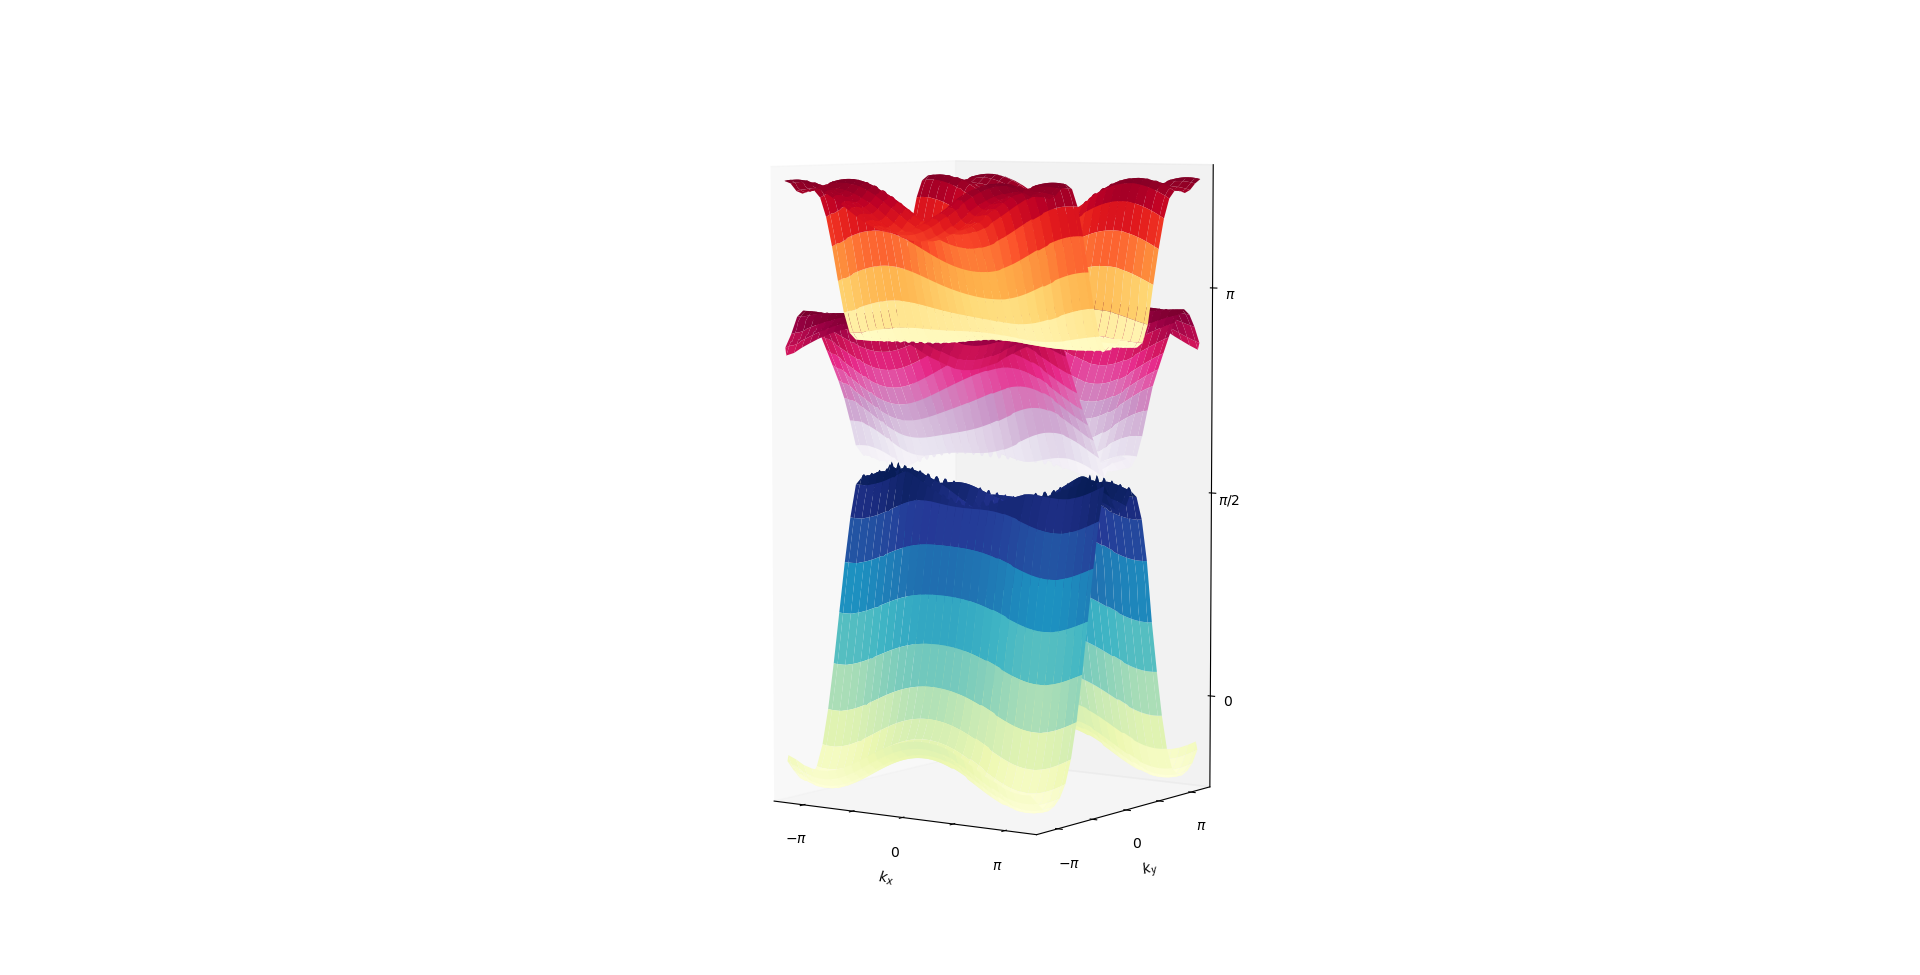
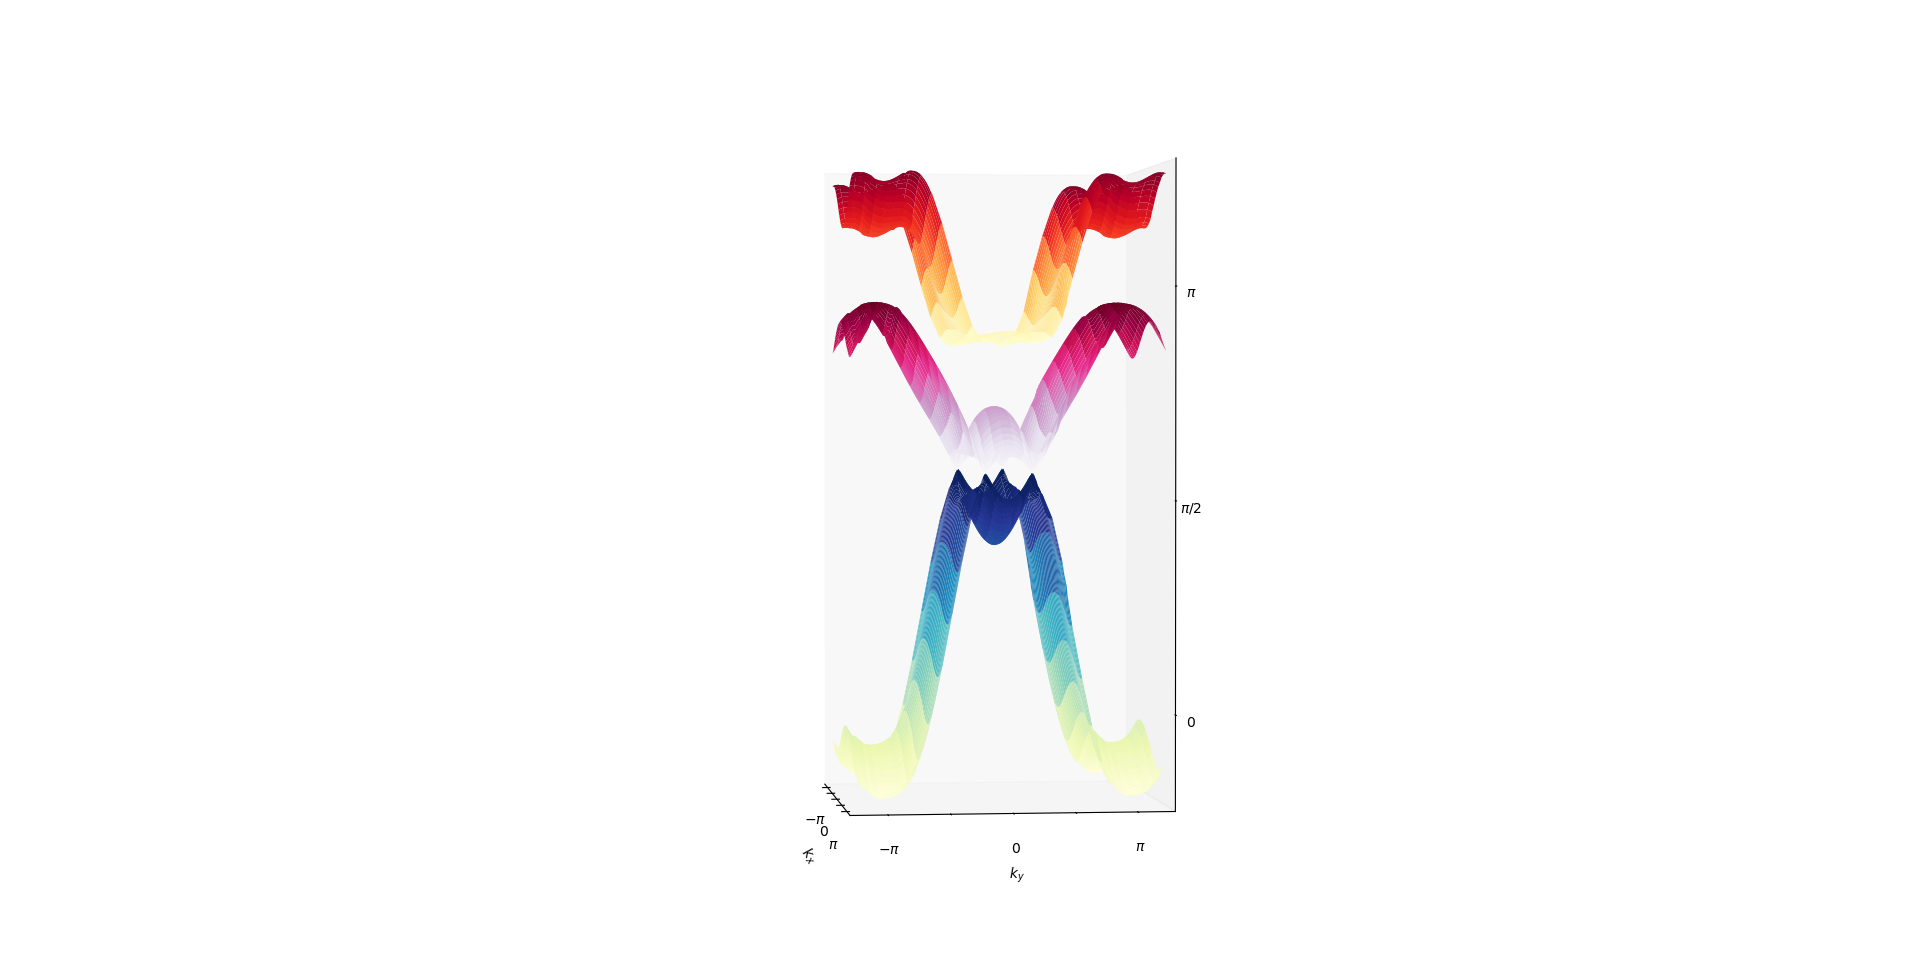
braiding

Changed region(s): [[0.4062, 0.1538, 0.625, 0.8615]]

diff --git a/square_complete.py b/square_complete.py
@@ -16,7 +16,7 @@ plot_from_save = True
 
 
 # PARAMETERS
-delta_A = 3
+delta_A = 2.5
 delta_C = -3
 omega = 9
 A_x = 1
